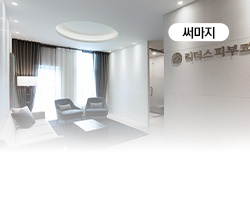
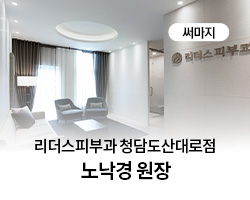
피부과 썸네일 수정 250414

Changed region(s): [[0.14, 0.69, 0.868, 0.78], [0.308, 0.81, 0.7, 0.9]]

diff --git a/UltheraKR.html b/UltheraKR.html
@@ -88,33 +88,33 @@
                 </div>
                 <div class="hospital__bottom">
                     <ul>
-                        <li>
+                        <li style="border: 1px solid #e4e4e4;">
                             <a href="/doctor/Dr_KimMinjoo.html">
-                                <div class="hospital__list">
+                                <div class="hospital__list" style="display: none;">
                                     <span>V&MJ피부과</span>
                                     <span>김민주 원장</span>
                                 </div>
                             </a>
                         </li>
-                        <li>
+                        <li style="border: 1px solid #e4e4e4;">
                             <a href="/doctor/Dr_ParkJaeYoung.html">
-                                <div class="hospital__list">
+                                <div class="hospital__list" style="display: none;">
                                     <span>압구정오라클피부과</span>
                                     <span>박제영 원장</span>
                                 </div>
                             </a>
                         </li>
-                        <li>
+                        <li style="border: 1px solid #e4e4e4;">
                             <a href="/doctor/Dr_KangSeungHee.html">
-                                <div class="hospital__list">
+                                <div class="hospital__list" style="display: none;">
                                     <span>리더스피부과 압구정점</span>
                                     <span>강승희 원장</span>
                                 </div>
                             </a>
                         </li>
-                        <li>
+                        <li style="border: 1px solid #e4e4e4;">
                             <a href="/doctor/Dr_LeeDongJin.html">
-                                <div class="hospital__list">
+                                <div class="hospital__list" style="display: none;">
                                     <span>BLS의원 강남</span>
                                     <span>이동진 원장</span>
                                 </div>

diff --git a/10sermarKR.html b/10sermarKR.html
@@ -88,33 +88,33 @@
                 </div>
                 <div class="hospital__bottom">
                     <ul>
-                        <li>
+                        <li style="border: 1px solid #e4e4e4;">
                             <a href="/doctor/Dr_KimJaeHwa_Ten.html">
-                                <div class="hospital__list">
+                                <div class="hospital__list" style="display: none;">
                                     <span>청담오라클피부과</span>
                                     <span>김재화 원장</span>
                                 </div>
                             </a>
                         </li>
-                        <li>
+                        <li style="border: 1px solid #e4e4e4;">
                             <a href="/doctor/Dr_JeonHeeDae.html">
-                                <div class="hospital__list">
+                                <div class="hospital__list" style="display: none;">
                                     <span>바노바기피부과</span>
                                     <span>전희대 원장</span>
                                 </div>
                             </a>
                         </li>
-                        <li>
+                        <li style="border: 1px solid #e4e4e4;">
                             <a href="/doctor/Dr_BangSookHyeon.html">
-                                <div class="hospital__list">
+                                <div class="hospital__list" style="display: none;">
                                     <span>DR피부과</span>
                                     <span>방숙현 원장</span>
                                 </div>
                             </a>
                         </li>
-                        <li>
+                        <li style="border: 1px solid #e4e4e4;">
                             <a href="/doctor/Dr_ShimHyeonCheol.html">
-                                <div class="hospital__list">
+                                <div class="hospital__list" style="display: none;">
                                     <span>연세더셀피부과</span>
                                     <span>심현철 원장</span>
                                 </div>

diff --git a/ThermageKR.html b/ThermageKR.html
@@ -123,7 +123,7 @@
                     <ul>
                         <li style="border: 1px solid #e4e4e4;">
                             <a href="/doctor/Dr_RoNakKyung.html">
-                                <div class="hospital__list" >
+                                <div class="hospital__list" style="display: none;">
                                     <span>리더스피부과 청담도산대로점</span>
                                     <span>노낙경 원장</span>
                                 </div>
@@ -131,7 +131,7 @@
                         </li>
                         <li style="border: 1px solid #e4e4e4;">
                             <a href="/doctor/Dr_KimYunJee.html">
-                                <div class="hospital__list">
+                                <div class="hospital__list" style="display: none;">
                                     <span>아이디피부과</span>
                                     <span>김윤지 원장</span>
                                 </div>
@@ -139,7 +139,7 @@
                         </li>
                         <li style="border: 1px solid #e4e4e4;">
                             <a href="/doctor/Dr_KimJaeHwa.html">
-                                <div class="hospital__list">
+                                <div class="hospital__list" style="display: none;">
                                     <span>청담오라클피부과</span>
                                     <span>김재화 원장</span>
                                 </div>
@@ -147,7 +147,7 @@
                         </li>
                         <li style="border: 1px solid #e4e4e4;">
                             <a href="/doctor/Dr_SeongHyeonCheol.html">
-                                <div class="hospital__list">
+                                <div class="hospital__list" style="display: none;">
                                     <span>닥터스피부과의원 신사본점</span>
                                     <span>성현철 원장</span>
                                 </div>

diff --git a/ScarKR.html b/ScarKR.html
@@ -88,17 +88,17 @@
                 </div>
                 <div class="hospital__bottom">
                     <ul>
-                        <li>
+                        <li style="border: 1px solid #e4e4e4;">
                             <a href="/doctor/Dr_LeeSangJoo.html">
-                                <div class="hospital__list">
+                                <div class="hospital__list" style="display: none;">
                                     <span>연세스타피부과</span>
                                     <span>이상주 원장</span>
                                 </div>
                             </a>
                         </li>
-                        <li>
+                        <li style="border: 1px solid #e4e4e4;">
                             <a href="/doctor/Dr_SeoSoukBae.html">
-                                <div class="hospital__list">
+                                <div class="hospital__list" style="display: none;">
                                     <span>서아송피부과</span>
                                     <span>서석배 원장</span>
                                 </div>

diff --git a/BotoxKR.html b/BotoxKR.html
@@ -89,9 +89,9 @@
                 </div>
                 <div class="hospital__bottom">
                     <ul>
-                        <li>
+                        <li style="border: 1px solid #e4e4e4;">
                             <a href="/doctor/Dr_ParkDaeJung.html">
-                                <div class="hospital__list">
+                                <div class="hospital__list" style="display: none;">
                                     <span>톡스앤필 강남본점</span>
                                     <span>박대정 원장</span>
                                 </div>

diff --git a/FillerKR.html b/FillerKR.html
@@ -89,9 +89,9 @@
                 </div>
                 <div class="hospital__bottom">
                     <ul>
-                        <li>
+                        <li style="border: 1px solid #e4e4e4;">
                             <a href="/doctor/Dr_RoYoungWoo.html">
-                                <div class="hospital__list">
+                                <div class="hospital__list" style="display: none;">
                                     <span>청담오라클피부과</span>
                                     <span>노영우원장</span>
                                 </div>

diff --git a/css/LaserBotoxFiller.css b/css/LaserBotoxFiller.css
@@ -6,6 +6,10 @@
     text-align: left;
 }
 
+.hospital-area h2{
+    margin-left: 4%;
+}
+
 .hospital-container{
     width: 100%; 
     text-align: center; 
@@ -87,7 +91,7 @@
 
 
 .nav-cont{
-    
+    margin-left: 4%;
 }
 
 .nav-cont ul{
@@ -97,8 +101,8 @@
     grid-template-columns: repeat(8, 1fr);
     grid-template-rows: repeat(2, 1fr);
     grid-template-areas: 
-    'a b c d e f g'
-    'a h i j k l m';
+    'b c d e f g'
+    'h i j k l m';
 }
 
 .nav-cont li{

diff --git a/css/ThermageKR.css b/css/ThermageKR.css
@@ -6,6 +6,10 @@
     text-align: left;
 }
 
+.hospital-area h2{
+    margin-left: 6%;
+}
+
 .hospital-container{
     width: 100%; 
     text-align: center; 
@@ -88,7 +92,7 @@
 
 
 .nav-cont{
-    
+    margin-left: 6%;
 }
 
 .nav-cont ul{
@@ -98,8 +102,8 @@
     grid-template-columns: repeat(8, 1fr);
     grid-template-rows: repeat(2, 1fr);
     grid-template-areas: 
-    'a b c d e f g'
-    'a h i j k l m';
+    'b c d e f g'
+    'h i j k l m';
 }
 
 .nav-cont li{
